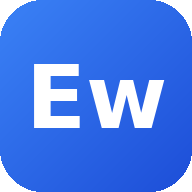
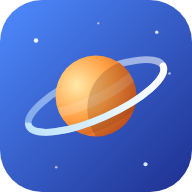
Add files via upload

diff --git a/app.js b/app.js
@@ -1,4 +1,4 @@
-/* Eng word — интерфейс */
+/* English Words — интерфейс */
 (function () {
   'use strict';
   const EW = window.EW;
@@ -28,6 +28,7 @@
 
   /* ---------- общее ---------- */
   const S = () => core.S;
+  const PR = () => core.S.settings; // настройки: они синхронизируются между устройствами
   const getWord = (id) => { const w = core.get('words', id); return w && !w.d ? w : null; };
   const liveWords = () => core.live('words');
   /* ---------- словари ---------- */
@@ -35,11 +36,13 @@
   const dictName = (id) => { const d = core.get('dicts', id); return d && !d.d ? d.name : '—'; };
   function curId() {
     const ds = core.live('dicts');
-    if (M.cur === 'all' && ds.length > 1) return 'all';
-    if (ds.some((d) => d.id === M.cur)) return M.cur;
+    const c = PR().cur;
+    if (c === 'all' && ds.length > 1) return 'all';
+    if (ds.some((d) => d.id === c)) return c;
     return (ds.find((d) => d.id === 'main') || ds[0] || { id: 'main' }).id;
   }
-  function setCur(id) { M.cur = id; core.saveMeta(); }
+  // Выбранный словарь синхронизируется вместе с остальными настройками; сам commit делает вызывающий код
+  function setCur(id) { if (PR().cur !== id) core.setSettings({ cur: id }); }
   function inScope(sc) {
     const all = liveWords();
     if (sc === 'all') return all;
@@ -88,7 +91,7 @@
   function speakText(text) {
     if (!tts.supported) { toast('Этот браузер не умеет озвучивать текст'); return; }
     if (!text) return;
-    tts.speak(text, { accent: M.accent, voice: M.voice, rate: M.rate }).then((ok) => {
+    tts.speak(text, { accent: PR().accent, voice: PR().voice, rate: PR().rate }).then((ok) => {
       if (!ok && !tts.list().length) toast('На устройстве нет английского голоса. Установите его в настройках синтеза речи');
     });
   }
@@ -507,14 +510,14 @@
     else study.cur = { id: r.pick.w.id, k: r.pick.k, kind: r.kind, stats: r.stats };
     study.revealed = false;
     renderStudy();
-    if (study.cur && study.cur.k === 'f' && M.autoSpeak) speakText(r.pick.w.en);
+    if (study.cur && study.cur.k === 'f' && PR().autoSpeak) speakText(r.pick.w.en);
   }
   function reveal() {
     if (!study || !study.cur || study.revealed) return;
     study.revealed = true;
     renderStudy();
     const w = getWord(study.cur.id);
-    if (w && study.cur.k === 'b' && M.autoSpeak) speakText(w.en);
+    if (w && study.cur.k === 'b' && PR().autoSpeak) speakText(w.en);
   }
   function grade(g) {
     if (!study || !study.cur || !study.revealed) return;
@@ -616,22 +619,22 @@
     const ios = /iphone|ipad|ipod/i.test(navigator.userAgent) && !window.navigator.standalone;
     view.innerHTML =
       '<div class="card" id="syncCard">' + syncCardHTML() + '</div>' +
-      (installEvt ? '<div class="card"><h3>Приложение</h3><p class="muted small" style="margin-top:0">Установите Eng word на устройство: откроется как обычное приложение и будет работать без интернета.</p><button class="btn primary" data-act="install">Установить</button></div>' : '') +
+      (installEvt ? '<div class="card"><h3>Приложение</h3><p class="muted small" style="margin-top:0">Установите English Words на устройство: откроется как обычное приложение и будет работать без интернета.</p><button class="btn primary" data-act="install">Установить</button></div>' : '') +
       (ios ? '<div class="card"><h3>Установка на iPhone</h3><p class="muted small" style="margin:0">В Safari нажмите «Поделиться» и выберите «На экран Домой». Так приложение откроется отдельно и данные надёжнее сохранятся.</p></div>' : '') +
-      '<div class="card"><h3>Занятия</h3><p class="muted small" style="margin-top:0">Эти настройки одинаковы на всех ваших устройствах.</p>' +
+      '<div class="card"><h3>Занятия</h3><p class="muted small" style="margin-top:0">Все настройки приложения переносятся на другие ваши устройства, если вы вошли в Google.</p>' +
       '<label>Новых слов в день<input type="number" id="s-new" min="0" max="500" value="' + s.newPerDay + '"></label>' +
       '<label class="check"><input type="checkbox" id="s-df"' + (s.dirs.f ? ' checked' : '') + '>Английский → русский</label>' +
       '<label class="check"><input type="checkbox" id="s-db"' + (s.dirs.b ? ' checked' : '') + '>Русский → английский</label></div>' +
-      '<div class="card"><h3>Произношение</h3><p class="muted small" style="margin-top:0">Голоса берутся из вашего устройства, поэтому на телефоне и компьютере они могут отличаться.</p>' +
+      '<div class="card"><h3>Произношение</h3><p class="muted small" style="margin-top:0">Настройки переносятся между устройствами. Сами голоса берутся из устройства, поэтому на телефоне и компьютере они могут отличаться: если выбранного голоса нет, подберётся подходящий.</p>' +
       (tts.supported ? '' : '<div class="note err">Этот браузер не умеет озвучивать текст.</div>') +
       '<label>Акцент<select id="s-accent"><option value="en-US">Американский</option><option value="en-GB">Британский</option></select></label>' +
       '<label>Голос<select id="s-voice"></select></label>' +
-      '<label>Скорость: <span id="rate-v">' + M.rate.toFixed(2).replace('.', ',') + '</span><input type="range" id="s-rate" min="0.5" max="1.2" step="0.05" value="' + M.rate + '"></label>' +
-      '<label class="check"><input type="checkbox" id="s-auto"' + (M.autoSpeak ? ' checked' : '') + '>Произносить слово автоматически</label>' +
+      '<label>Скорость: <span id="rate-v">' + PR().rate.toFixed(2).replace('.', ',') + '</span><input type="range" id="s-rate" min="0.5" max="1.2" step="0.05" value="' + PR().rate + '"></label>' +
+      '<label class="check"><input type="checkbox" id="s-auto"' + (PR().autoSpeak ? ' checked' : '') + '>Произносить слово автоматически</label>' +
       '<button class="btn" data-act="speak" data-text="Hello! This is how I pronounce English words.">' + I.speaker + 'Проверить голос</button></div>' +
       '<div class="card" id="dataCard"></div>' +
-      '<div class="card"><h3>О приложении</h3><p class="muted small" style="margin:0">Eng word · версия 1.1 · <a href="privacy.html">политика конфиденциальности</a></p></div>';
-    $('#s-accent').value = M.accent;
+      '<div class="card"><h3>О приложении</h3><p class="muted small" style="margin:0">English Words · версия 1.2 · <a href="privacy.html">политика конфиденциальности</a></p></div>';
+    $('#s-accent').value = PR().accent;
     fillVoices();
     refreshData();
   }
@@ -640,7 +643,7 @@
     if (!sel) return;
     const list = tts.list();
     sel.innerHTML = '<option value="">Подобрать автоматически</option>' + list.map((v) => '<option value="' + esc(v.voiceURI) + '">' + esc(v.name + ' (' + v.lang + ')') + '</option>').join('');
-    sel.value = M.voice && list.some((v) => v.voiceURI === M.voice) ? M.voice : '';
+    sel.value = PR().voice && list.some((v) => v.voiceURI === PR().voice) ? PR().voice : '';
   }
   async function refreshData() {
     const el = $('#dataCard');
@@ -664,7 +667,6 @@
   async function wipeLocal() {
     if (!window.confirm('Стереть все слова, прогресс и файлы на этом устройстве?' + (M.signedIn ? ' Копия на Google Drive останется и вернётся при следующей синхронизации.' : ' Без входа в Google их нельзя будет вернуть.'))) return;
     core.S = core.normalize(core.defaults());
-    M.cur = '';
     M.dirty = false; M.rv = ''; M.lastSync = 0;
     core.saveMeta();
     await core.persist(true);
@@ -738,7 +740,7 @@
       core.tomb('words', w.id);
     }
     core.tomb('dicts', id);
-    if (M.cur === id) setCur('');
+    if (PR().cur === id) setCur('');
     core.commit();
     renderDm();
     toast('Словарь удалён');
@@ -825,7 +827,7 @@
     if (!window.confirm('Слить «' + from + '» в «' + to + '»? Перенесётся слов: ' + pv.moved + (pv.merged + pv.replaced ? ', повторов объединится: ' + (pv.merged + pv.replaced) : '') + '. Словарь «' + from + '» будет удалён.')) return;
     const r = runMerge(dm.src, dm.dst, dm.pol, false);
     core.tomb('dicts', dm.src);
-    if (M.cur === dm.src || M.cur === 'all') setCur(dm.dst);
+    if (PR().cur === dm.src || PR().cur === 'all') setCur(dm.dst);
     core.commit();
     dm.v = 'list'; dm.src = ''; dm.dst = '';
     renderDm();
@@ -853,7 +855,7 @@
     chip: () => { if (!M.signedIn) show('settings'); else D.syncNow({ interactive: true }); },
     dicts: () => openDicts(),
     'dm-back': () => { dm.v = 'list'; renderDm(); },
-    'dm-pick': (el) => { setCur(el.dataset.id); closeModal(); view.dataset.tab = ''; render(); },
+    'dm-pick': (el) => { setCur(el.dataset.id); core.commit(); closeModal(); view.dataset.tab = ''; render(); },
     'dm-ren': (el) => { dm.edit = el.dataset.id; renderDm(); const i = $('#dm-ren'); if (i) { i.focus(); i.select(); } },
     'dm-ren-cancel': () => { dm.edit = ''; renderDm(); },
     'dm-del': (el) => deleteDict(el.dataset.id),
@@ -921,12 +923,12 @@
     const id = e.target.id;
     if (id === 'w-q') { wordsUI.q = e.target.value; wordsUI.limit = 80; renderWordList(); }
     else if (id === 'f-en') checkDup();
-    else if (id === 's-rate') { M.rate = +e.target.value; core.saveMeta(); $('#rate-v').textContent = M.rate.toFixed(2).replace('.', ','); }
+    else if (id === 's-rate') { $('#rate-v').textContent = (+e.target.value).toFixed(2).replace('.', ','); }
   });
   document.addEventListener('change', (e) => {
     const t = e.target, id = t.id;
     if (id === 'w-f') { wordsUI.filter = t.value; wordsUI.limit = 80; renderWordList(); }
-    else if (id === 'd-sel') { setCur(t.value); wordsUI.limit = 80; view.dataset.tab = ''; render(); }
+    else if (id === 'd-sel') { setCur(t.value); core.commit(); wordsUI.limit = 80; view.dataset.tab = ''; render(); }
     else if (id === 'f-dict') { form.dict = t.value; checkDup(); }
     else if (id === 'imp-dict') { $('#imp-newwrap').hidden = t.value !== '__new'; if (t.value === '__new') $('#imp-newname').focus(); previewImport(); }
     else if (id === 'mg-src') { dm.src = t.value; renderDm(); }
@@ -938,9 +940,10 @@
       if (!f && !b) { t.checked = true; toast('Нужно оставить хотя бы одно направление'); return; }
       core.setSettings({ dirs: { f, b } }); core.commit();
     }
-    else if (id === 's-accent') { M.accent = t.value; M.voice = ''; core.saveMeta(); fillVoices(); }
-    else if (id === 's-voice') { M.voice = t.value; core.saveMeta(); }
-    else if (id === 's-auto') { M.autoSpeak = t.checked; core.saveMeta(); }
+    else if (id === 's-rate') { core.setSettings({ rate: +t.value }); core.commit(); }
+    else if (id === 's-accent') { core.setSettings({ accent: t.value, voice: '' }); core.commit(); fillVoices(); }
+    else if (id === 's-voice') { core.setSettings({ voice: t.value }); core.commit(); }
+    else if (id === 's-auto') { core.setSettings({ autoSpeak: t.checked }); core.commit(); }
     else if (id === 'f-files') {
       for (const f of Array.from(t.files)) {
         if (f.size > D.MAX_FILE) { showFormErr('Файл «' + f.name + '» больше ' + Math.round(D.MAX_FILE / 1048576) + ' МБ'); continue; }
@@ -975,6 +978,15 @@
   /* ---------- запуск ---------- */
   async function boot() {
     await core.init();
+    // настройки, которые раньше хранились только на устройстве, переносим в синхронизируемые
+    let moved = false;
+    for (const k of ['accent', 'voice', 'rate', 'autoSpeak', 'cur']) {
+      if (M[k] !== undefined) {
+        if (!PR().ts[k] && M[k] !== core.defaults().settings[k]) { PR()[k] = M[k]; PR().ts[k] = 1; }
+        delete M[k]; moved = true;
+      }
+    }
+    if (moved) { core.saveMeta(); core.persist(); }
     core.hooks.changed = onChanged;
     core.hooks.error = toast;
     D.onstatus = () => { updateChip(); };

diff --git a/core.js b/core.js
@@ -1,4 +1,4 @@
-/* Eng word — ядро: состояние, хранение, слияние по записям. */
+/* English Words — ядро: состояние, хранение, слияние по записям. */
 (function () {
   'use strict';
   const EW = (window.EW = window.EW || {});
@@ -9,7 +9,7 @@
   const TOMB_TTL = 90 * 864e5;
 
   function defaults() {
-    return { v: 1, settings: { u: 0, newPerDay: 10, dirs: { f: true, b: true } }, words: [], files: [], days: [], dicts: [] };
+    return { v: 1, settings: { u: 0, ts: {}, newPerDay: 10, dirs: { f: true, b: true }, accent: 'en-US', voice: '', rate: 0.9, autoSpeak: true, cur: '' }, words: [], files: [], days: [], dicts: [] };
   }
   function normalize(s) {
     const d = defaults();
@@ -17,6 +17,7 @@
     s.v = 1;
     s.settings = Object.assign({}, d.settings, s.settings || {});
     s.settings.dirs = Object.assign({}, d.settings.dirs, s.settings.dirs || {});
+    if (!s.settings.ts || typeof s.settings.ts !== 'object') s.settings.ts = {};
     for (const c of COLLS) if (!Array.isArray(s[c])) s[c] = [];
     ensureDicts(s);
     return s;
@@ -30,7 +31,8 @@
     return true;
   }
 
-  const metaDefaults = { signedIn: false, dirty: false, lastSync: 0, rv: '', voice: '', cur: '', accent: 'en-US', rate: 0.9, autoSpeak: true };
+  // Только то, что относится к самому устройству. Все настройки (занятия, голос, выбранный словарь) лежат в S.settings и синхронизируются.
+  const metaDefaults = { signedIn: false, dirty: false, lastSync: 0, rv: '' };
   function loadMeta() {
     try { return Object.assign({}, metaDefaults, JSON.parse(localStorage.getItem(LS_META) || '{}')); } catch (e) { return Object.assign({}, metaDefaults); }
   }
@@ -166,9 +168,14 @@
     const i = core.S[c].findIndex((x) => x.id === id);
     if (i >= 0) core.S[c][i] = Object.assign({ id, d: true, u: Date.now() }, extra || {});
   };
+  // Каждая настройка помнит своё время изменения (ts), поэтому правки разных настроек на разных устройствах не затирают друг друга.
   core.setSettings = function (patch) {
-    core.S.settings = Object.assign({}, core.S.settings, patch);
-    core.S.settings.u = Date.now();
+    const now = Date.now();
+    const s = Object.assign({}, core.S.settings, patch);
+    s.ts = Object.assign({}, core.S.settings.ts || {});
+    for (const k of Object.keys(patch)) s.ts[k] = now;
+    s.u = now;
+    core.S.settings = s;
   };
   // Любое изменение данных проходит через commit()
   core.commit = function () {
@@ -199,10 +206,18 @@
       L[c] = [...lm.values()].filter((x) => !(x.d && !x.driveId && now - (x.u || 0) > TOMB_TTL));
     }
     if (ensureDicts(L)) pushNeeded = true;
-    const ru = (R.settings && R.settings.u) || 0;
-    const lu = L.settings.u || 0;
-    if (ru > lu) { L.settings = Object.assign({}, defaults().settings, R.settings); pullChanged = true; }
-    else if (lu > ru) pushNeeded = true;
+    const rs = R.settings || {}, ls = L.settings;
+    const lts = Object.assign({}, ls.ts || {});
+    const rts = rs.ts || {};
+    for (const k of Object.keys(Object.assign({}, ls, rs))) {
+      if (k === 'u' || k === 'ts') continue;
+      const lt = lts[k] != null ? lts[k] : ls.u || 0;
+      const rt = rts[k] != null ? rts[k] : rs.u || 0;
+      if (k in rs && rt > lt) { ls[k] = rs[k]; lts[k] = rt; pullChanged = true; }
+      else if (lt > rt || !(k in rs)) { if (lt > rt || (k in ls && !(k in rs))) pushNeeded = true; }
+    }
+    ls.ts = lts;
+    ls.u = Math.max(ls.u || 0, rs.u || 0);
     return { pushNeeded, pullChanged };
   };
 

diff --git a/privacy.html b/privacy.html
@@ -3,7 +3,7 @@
 <head>
 <meta charset="utf-8">
 <meta name="viewport" content="width=device-width, initial-scale=1">
-<title>Политика конфиденциальности — Eng word</title>
+<title>Политика конфиденциальности — English Words</title>
 <meta name="robots" content="index,follow">
 <style>
   :root { --bg:#f4f6fb; --card:#fff; --text:#0f172a; --muted:#5b6b82; --acc:#2563eb; }
@@ -19,9 +19,9 @@
 <main>
 <article>
   <h1>Политика конфиденциальности</h1>
-  <p class="muted">Приложение «Eng word» · обновлено 15 октября 2026 г.</p>
+  <p class="muted">Приложение «English Words» · обновлено 15 октября 2026 г.</p>
 
-  <p>Eng word — это бесплатное веб-приложение для изучения английских слов. У него нет собственного сервера и базы данных. Всё, что вы вносите (слова, переводы, примеры, прогресс повторения, прикреплённые файлы), остаётся только у вас.</p>
+  <p>English Words — это бесплатное веб-приложение для изучения английских слов. У него нет собственного сервера и базы данных. Всё, что вы вносите (слова, переводы, примеры, прогресс повторения, прикреплённые файлы), остаётся только у вас.</p>
 
   <h2>Где хранятся данные</h2>
   <ul>
@@ -44,7 +44,7 @@
   <h2>Как удалить данные</h2>
   <ul>
     <li>В приложении: «Ещё» → «Стереть данные на этом устройстве».</li>
-    <li>Из Google Drive: откройте <a href="https://drive.google.com/drive/u/0/settings">настройки Google Drive</a> → «Управление приложениями» → Eng word → «Удалить скрытые данные приложения».</li>
+    <li>Из Google Drive: откройте <a href="https://drive.google.com/drive/u/0/settings">настройки Google Drive</a> → «Управление приложениями» → English Words → «Удалить скрытые данные приложения».</li>
     <li>Отозвать доступ приложения можно в <a href="https://myaccount.google.com/permissions">настройках аккаунта Google</a>.</li>
   </ul>
 

diff --git a/index.html b/index.html
@@ -3,20 +3,20 @@
 <head>
 <meta charset="utf-8">
 <meta name="viewport" content="width=device-width, initial-scale=1, viewport-fit=cover">
-<title>Eng word</title>
+<title>English Words</title>
 <meta name="description" content="Учим английские слова по интервальному повторению. Работает без интернета, синхронизируется через ваш Google Drive.">
 <meta name="theme-color" content="#2563eb">
 <meta name="apple-mobile-web-app-capable" content="yes">
 <meta name="mobile-web-app-capable" content="yes">
-<meta name="apple-mobile-web-app-title" content="Eng word">
-<link rel="manifest" href="manifest.webmanifest?v=2">
+<meta name="apple-mobile-web-app-title" content="English Words">
+<link rel="manifest" href="manifest.webmanifest?v=3">
 <link rel="icon" href="icons/icon.svg" type="image/svg+xml">
-<link rel="apple-touch-icon" href="icons/icon-192.png">
-<link rel="stylesheet" href="style.css?v=2">
+<link rel="apple-touch-icon" href="icons/icon-180.png">
+<link rel="stylesheet" href="style.css?v=3">
 </head>
 <body>
 <header class="top">
-  <div class="brand"><span class="logo" aria-hidden="true">Ew</span><span class="brand-name">Eng word</span></div>
+  <div class="brand"><img class="logo" src="icons/icon.svg" alt="" width="32" height="32"><span class="brand-name">English Words</span></div>
   <button type="button" class="chip" id="chip" data-act="chip" aria-live="polite">Только на этом устройстве</button>
 </header>
 
@@ -44,11 +44,11 @@
 
 <noscript><p style="padding:24px">Для работы приложения нужен JavaScript.</p></noscript>
 
-<script src="core.js?v=2"></script>
-<script src="srs.js?v=2"></script>
-<script src="csv.js?v=2"></script>
-<script src="tts.js?v=2"></script>
-<script src="drive.js?v=2"></script>
-<script src="app.js?v=2"></script>
+<script src="core.js?v=3"></script>
+<script src="srs.js?v=3"></script>
+<script src="csv.js?v=3"></script>
+<script src="tts.js?v=3"></script>
+<script src="drive.js?v=3"></script>
+<script src="app.js?v=3"></script>
 </body>
 </html>

diff --git a/style.css b/style.css
@@ -35,7 +35,7 @@ h2 { font-size: 1.25rem; }
   backdrop-filter: blur(10px); -webkit-backdrop-filter: blur(10px); border-bottom: 1px solid var(--line);
 }
 .brand { display: flex; align-items: center; gap: 10px; font-weight: 700; min-width: 0; }
-.logo { display: grid; place-items: center; width: 32px; height: 32px; border-radius: 10px; background: var(--acc); color: #fff; font-size: .9rem; font-weight: 800; letter-spacing: -.5px; flex: none; }
+.logo { width: 32px; height: 32px; border-radius: 9px; flex: none; display: block; }
 .chip {
   border: 1px solid var(--line); background: var(--card); border-radius: 999px; padding: 6px 12px; font-size: .8125rem; color: var(--muted);
   cursor: pointer; max-width: 55vw; white-space: nowrap; overflow: hidden; text-overflow: ellipsis;
@@ -214,3 +214,8 @@ table.prev th { color: var(--muted); font-weight: 600; }
 .di form, form.di { }
 .dg { background: var(--bg); border-radius: 10px; padding: 8px 12px; margin-bottom: 6px; overflow-wrap: anywhere; }
 details.dups { margin-bottom: 12px; }
+
+@media (max-width: 440px) {
+  .brand-name { white-space: nowrap; font-size: .95rem; }
+  .chip { font-size: .75rem; padding: 6px 10px; min-width: 0; overflow: hidden; text-overflow: ellipsis; white-space: nowrap; }
+}

diff --git a/sw.js b/sw.js
@@ -1,9 +1,9 @@
-/* Eng word — service worker.
+/* English Words — service worker.
    Сначала сеть (чтобы обновления доходили сразу), кэш — только запасной вариант без интернета. */
-const CACHE = 'engword-v2';
+const CACHE = 'engword-v3';
 const FILES = [
-  './', 'index.html', 'style.css?v=2', 'core.js?v=2', 'srs.js?v=2', 'csv.js?v=2', 'tts.js?v=2', 'drive.js?v=2', 'app.js?v=2',
-  'manifest.webmanifest?v=2', 'privacy.html', 'icons/icon.svg', 'icons/icon-192.png', 'icons/icon-512.png',
+  './', 'index.html', 'style.css?v=3', 'core.js?v=3', 'srs.js?v=3', 'csv.js?v=3', 'tts.js?v=3', 'drive.js?v=3', 'app.js?v=3',
+  'manifest.webmanifest?v=3', 'privacy.html', 'icons/icon.svg', 'icons/icon-192.png', 'icons/icon-512.png', 'icons/icon-180.png',
 ];
 
 self.addEventListener('install', (e) => {

diff --git a/csv.js b/csv.js
@@ -1,4 +1,4 @@
-/* Eng word — импорт и экспорт CSV. Понимает запятую, точку с запятой и табуляцию, кавычки, BOM, UTF-8 и Windows-1251. */
+/* English Words — импорт и экспорт CSV. Понимает запятую, точку с запятой и табуляцию, кавычки, BOM, UTF-8 и Windows-1251. */
 (function () {
   'use strict';
   const EW = (window.EW = window.EW || {});

diff --git a/srs.js b/srs.js
@@ -1,4 +1,4 @@
-/* Eng word — интервальное повторение (по схеме SM-2 с шагами обучения). Чистые функции, без доступа к DOM. */
+/* English Words — интервальное повторение (по схеме SM-2 с шагами обучения). Чистые функции, без доступа к DOM. */
 (function () {
   'use strict';
   const EW = (window.EW = window.EW || {});

diff --git a/drive.js b/drive.js
@@ -1,4 +1,4 @@
-/* Eng word — вход через Google (GIS, token flow) и синхронизация с appDataFolder на Google Drive. Бэкенда нет. */
+/* English Words — вход через Google (GIS, token flow) и синхронизация с appDataFolder на Google Drive. Бэкенда нет. */
 (function () {
   'use strict';
   const EW = (window.EW = window.EW || {});

diff --git a/tts.js b/tts.js
@@ -1,4 +1,4 @@
-/* Eng word — синтезатор речи (Web Speech API). Голоса берутся из самого устройства. */
+/* English Words — синтезатор речи (Web Speech API). Голоса берутся из самого устройства. */
 (function () {
   'use strict';
   const EW = (window.EW = window.EW || {});
